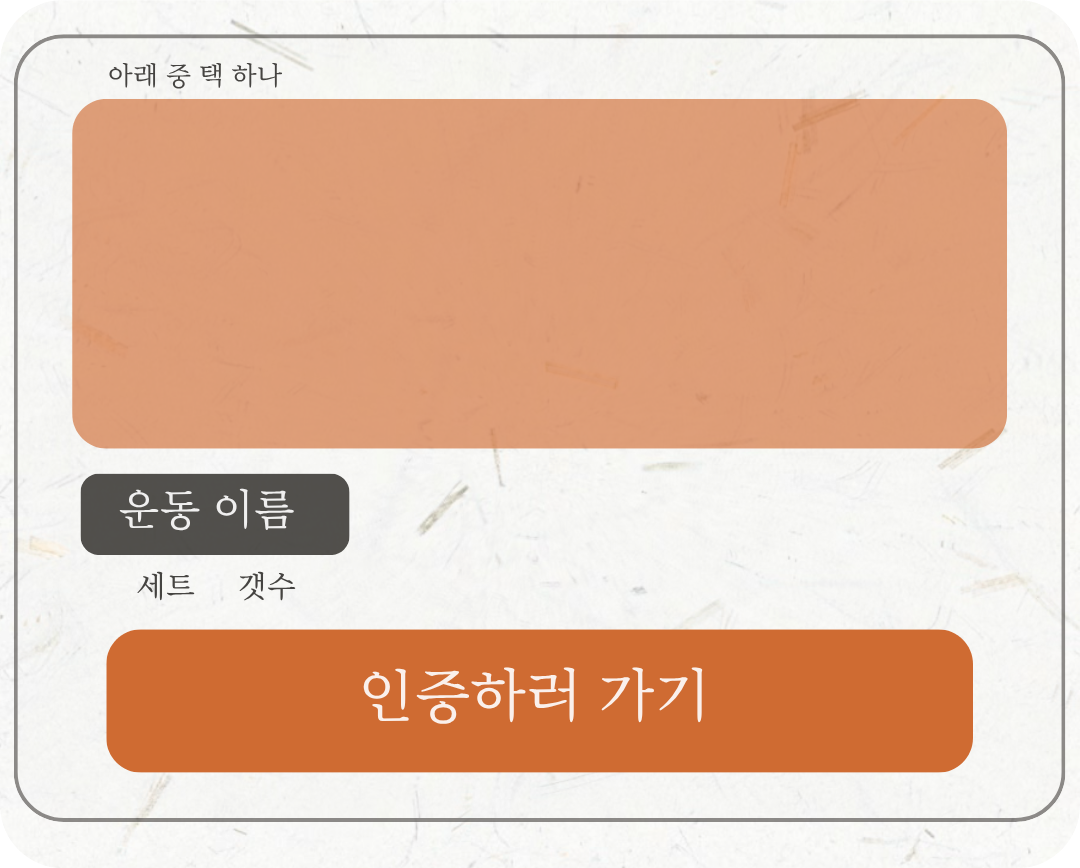
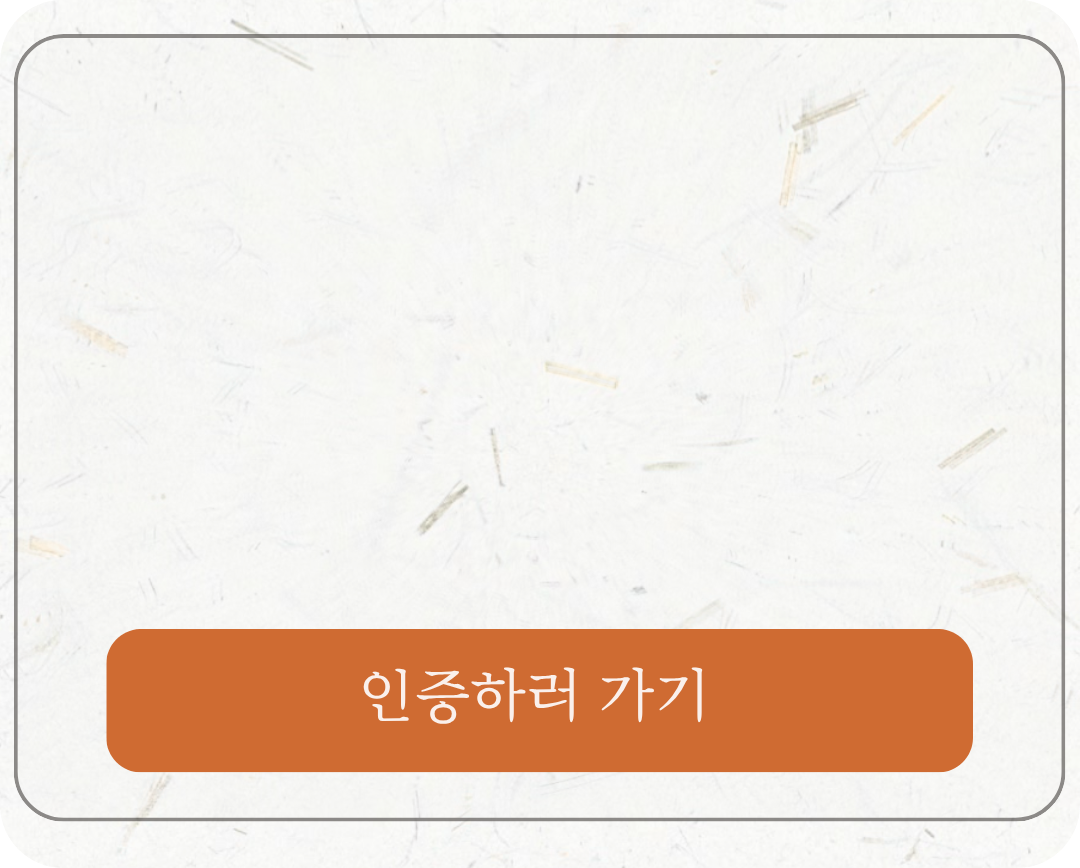
Swap in the redesigned popup/verify backgrounds (blank canvas)
The user re-uploaded cleaner versions of both the mission popup and
the photo-verification screen background, with the placeholder
photo/badge/checkbox content removed (just the card frames and the
buttons remain baked in). This avoids the awkward patch-over-baked-
content issue from before entirely, since there's nothing underneath
to clash with.

- Popup: added a small instructional header, kept the gallery/name
  badge/sets overlays but simplified them (no more background-color
  patches needed) since the canvas beneath is blank.
- Verify screen: same cleanup for the reference badge/sets, and
  since the checkbox row is now fully blank, built a real checkbox
  (custom-drawn box + checkmark + label) instead of overlaying a
  checkmark on a baked outline.

diff --git a/demos/gym_map.html b/demos/gym_map.html
@@ -226,27 +226,15 @@ body{
   background-size:100% 100%;
   background-repeat:no-repeat;
 }
-.popup-badge{
+.popup-header{
   position:absolute;
-  left:6.8%;top:53%;width:34%;height:11.5%;
-  background:#3A3835;
-  border-radius:9px;
-  display:flex;align-items:center;justify-content:center;
-  color:#F7F5F0;font-size:14px;font-weight:700;
-  padding:0 10px;
-  overflow:hidden;white-space:nowrap;text-overflow:ellipsis;
-}
-.popup-sets{
-  position:absolute;
-  left:9%;top:65.5%;width:60%;height:6%;
-  background:#F5F0E8;
-  display:flex;align-items:center;gap:14px;
-  color:#3A3835;font-size:11px;font-weight:700;
+  left:6%;top:3.5%;width:85%;
+  color:#8A8680;font-size:10.5px;font-weight:700;
+  letter-spacing:0.2px;
 }
 .popup-gallery{
   position:absolute;
-  left:6.76%;top:11.4%;width:86.4%;height:40.1%;
-  background:#F5F0E8;
+  left:5.5%;top:8.5%;width:89%;height:39%;
   display:flex;gap:6px;overflow-x:auto;
   border-radius:6px;
 }
@@ -254,6 +242,7 @@ body{
 .popup-gallery-item{
   position:relative;flex:0 0 auto;height:100%;
   border-radius:6px;overflow:hidden;
+  background:#EDE8DD;
 }
 .popup-gallery-item img{width:100%;height:100%;object-fit:cover;display:block;}
 .popup-gallery-item span{
@@ -262,9 +251,26 @@ body{
   font-size:8px;font-weight:700;padding:3px 7px;border-radius:20px;
   white-space:nowrap;
 }
+.popup-badge{
+  position:absolute;
+  left:5.5%;top:51.5%;
+  background:#3A3835;
+  border-radius:9px;
+  display:inline-flex;align-items:center;justify-content:center;
+  color:#F7F5F0;font-size:14px;font-weight:700;
+  padding:8px 14px;
+  max-width:75%;
+  overflow:hidden;white-space:nowrap;text-overflow:ellipsis;
+}
+.popup-sets{
+  position:absolute;
+  left:5.5%;top:64%;width:70%;height:5%;
+  display:flex;align-items:center;gap:14px;
+  color:#3A3835;font-size:11px;font-weight:700;
+}
 .popup-verify-btn{
   position:absolute;
-  left:9.9%;top:72.6%;width:80.1%;height:16.2%;
+  left:9.8%;top:72.6%;width:80.2%;height:16.1%;
   background:none;border:none;cursor:pointer;
 }
 .popup-verify-btn.disabled::before{
@@ -288,25 +294,24 @@ body{
 .verify-back:active{opacity:0.6;}
 .verify-badge{
   position:absolute;
-  left:9.2%;top:42.5%;width:34%;height:3.9%;
+  left:6.9%;top:42.5%;
   background:#3A3835;
   border-radius:7px;
-  display:flex;align-items:center;justify-content:center;
+  display:inline-flex;align-items:center;justify-content:center;
   color:#F7F5F0;font-size:14px;font-weight:700;
-  padding:0 10px;
+  padding:8px 12px;
+  max-width:70%;
   overflow:hidden;white-space:nowrap;text-overflow:ellipsis;
 }
 .verify-sets{
   position:absolute;
-  left:10%;top:47.2%;width:60%;height:2.2%;
-  background:#F5F0E8;
+  left:6.9%;top:47.2%;width:60%;height:2.2%;
   display:flex;align-items:center;gap:14px;
   color:#3A3835;font-size:11px;font-weight:700;
 }
 .verify-gallery{
   position:absolute;
   left:6.94%;top:21.84%;width:86.4%;height:18.12%;
-  background:#F5F0E8;
   display:flex;gap:6px;overflow-x:auto;
   border-radius:6px;
 }
@@ -314,6 +319,7 @@ body{
 .verify-gallery-item{
   position:relative;flex:0 0 auto;height:100%;
   border-radius:6px;overflow:hidden;
+  background:#EDE8DD;
 }
 .verify-gallery-item img{width:100%;height:100%;object-fit:cover;display:block;}
 .verify-gallery-item span{
@@ -337,13 +343,29 @@ body{
   text-align:center;
 }
 .verify-photo.has-photo .verify-photo-hint{display:none;}
-.verify-checkbox{
+.verify-checkbox-row{
   position:absolute;
-  left:14.3%;top:85.4%;width:5%;height:2.6%;
-  cursor:pointer;
+  left:10%;top:85.04%;width:79.9%;height:3.2%;
+  display:flex;align-items:center;gap:10px;
+  padding:0 14px;
+  pointer-events:none;
 }
-.verify-checkbox svg{width:100%;height:100%;display:none;}
+.verify-checkbox{
+  flex-shrink:0;
+  width:22px;height:22px;
+  border:2px solid #F7F5F0;
+  border-radius:5px;
+  display:flex;align-items:center;justify-content:center;
+  cursor:pointer;
+  pointer-events:auto;
+  transition:background .12s ease;
+}
+.verify-checkbox.checked{background:var(--teal);border-color:var(--teal);}
+.verify-checkbox svg{width:70%;height:70%;display:none;}
 .verify-checkbox.checked svg{display:block;}
+.verify-checkbox-label{
+  color:#F7F5F0;font-size:11.5px;font-weight:700;
+}
 .verify-complete-btn{
   position:absolute;
   left:10.1%;top:89.5%;width:80.1%;height:5.6%;
@@ -514,6 +536,7 @@ body{
 
       <div class="popup-overlay" id="missionPopup" onclick="if(event.target===this) closeMissionPopup();">
         <div class="popup-card">
+          <div class="popup-header">아래 기구 사진 중 하나를 확인하세요</div>
           <div class="popup-gallery" id="popupGallery"></div>
           <div class="popup-badge" id="popupBadge"></div>
           <div class="popup-sets"><span id="popupSets"></span><span id="popupReps"></span></div>
@@ -536,8 +559,11 @@ body{
         <img id="verifyPhotoImg" src="">
       </div>
       <input type="file" id="verifyFileInput" accept="image/*" capture="environment" style="display:none;">
-      <div class="verify-checkbox" id="verifyCheckbox" onclick="toggleVerifyCheckbox()">
-        <svg viewBox="0 0 24 24" fill="none" stroke="#3A3835" stroke-width="3" stroke-linecap="round" stroke-linejoin="round"><path d="M5 13l4 4L19 7"/></svg>
+      <div class="verify-checkbox-row">
+        <div class="verify-checkbox" id="verifyCheckbox" onclick="toggleVerifyCheckbox()">
+          <svg viewBox="0 0 24 24" fill="none" stroke="#FFFFFF" stroke-width="3" stroke-linecap="round" stroke-linejoin="round"><path d="M5 13l4 4L19 7"/></svg>
+        </div>
+        <div class="verify-checkbox-label">운동 기구 사진을 찍어 인증해주세요.</div>
       </div>
       <button class="verify-complete-btn" onclick="completeVerify()"></button>
     </div>
